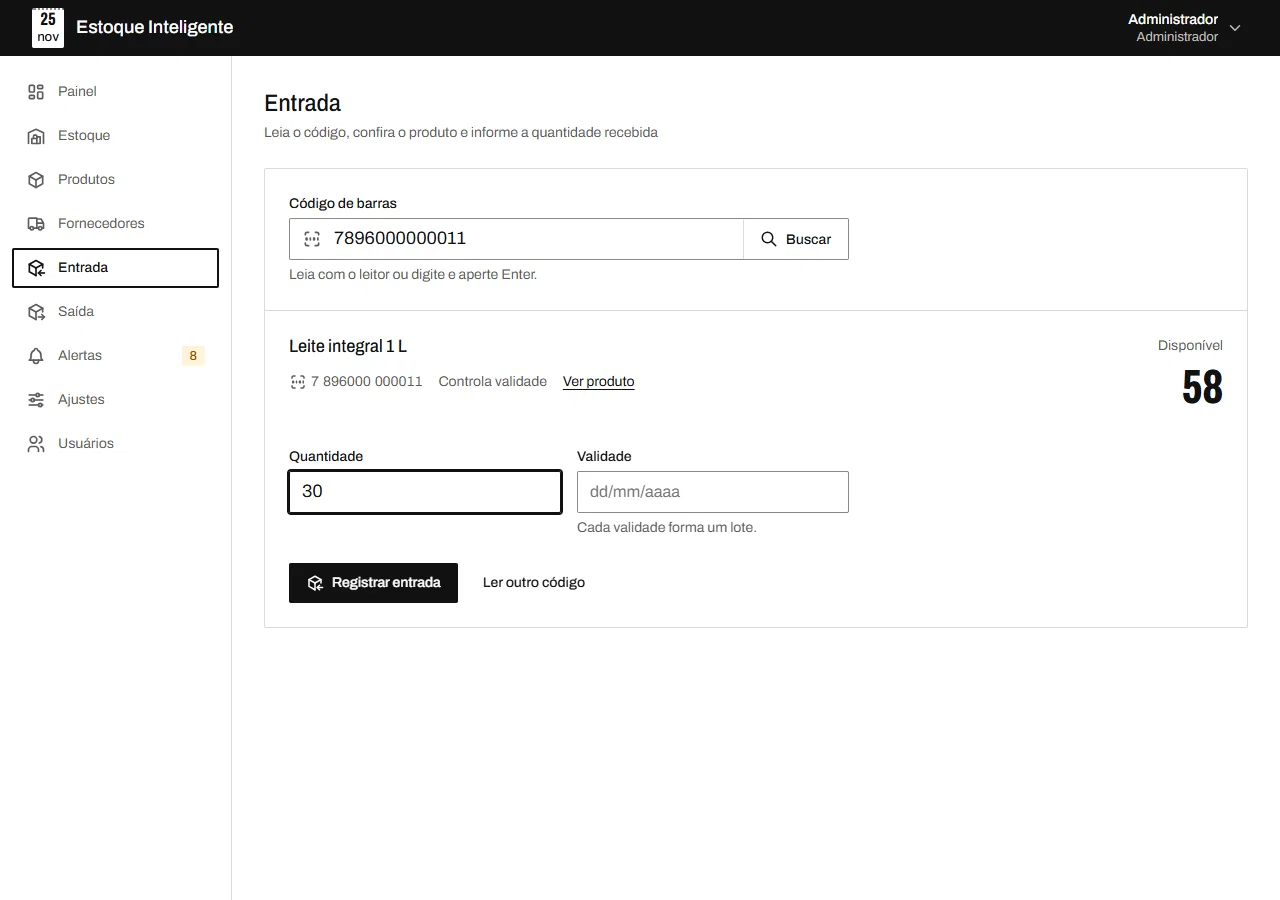
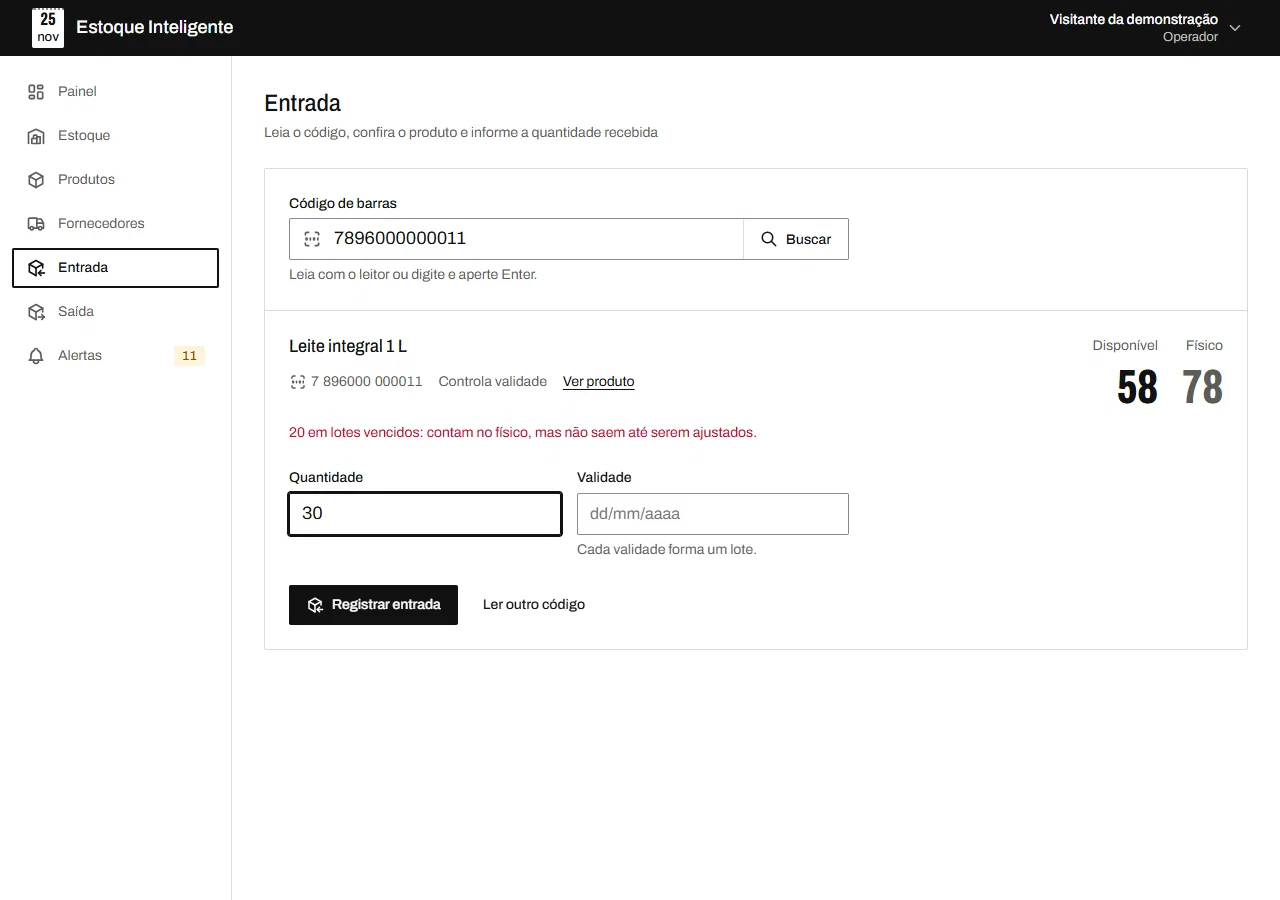
docs: capturas do site publicado e do Swagger no README

diff --git a/README.md b/README.md
@@ -36,21 +36,25 @@ Na tela de login, o botão "Entrar como demonstração" entra direto, sem digita
 
 | Painel, com os vencimentos dos próximos 21 dias | Estoque, com saldo, mínimo e situação |
 |---|---|
-| ![Painel com 4 produtos em estoque baixo (1 sem estoque), 4 lotes a vencer e nenhum vencido, a régua dos próximos 21 dias com hoje em placa preta e 4 dias de vencimento circulados, e as últimas movimentações](docs/imagens/painel.webp) | ![Estoque com os filtros Todos, Estoque baixo e Sem estoque, a busca por nome ou código de barras e 12 produtos com saldo disponível, mínimo e situação: em dia, estoque baixo ou sem estoque](docs/imagens/estoque.webp) |
+| ![Painel com 4 produtos em estoque baixo (1 sem estoque), 4 lotes a vencer e 3 vencidos, o aviso de 3 lotes vencidos com o link Ver vencidos, a régua dos próximos 21 dias com hoje em placa preta e 4 dias de vencimento circulados, e as últimas movimentações](docs/imagens/painel.webp) | ![Estoque com os filtros Todos, Estoque baixo e Sem estoque, a busca por nome ou código de barras e 12 produtos com saldo disponível, mínimo e situação; o saldo físico aparece em três produtos que têm unidades vencidas](docs/imagens/estoque.webp) |
 
-| Detalhe do produto, com preço, lotes e histórico | Entrada, com o código de barras lido |
+| Detalhe do produto, com lotes e histórico | Entrada, com o código de barras lido |
 |---|---|
-| ![Detalhe do Leite integral 1 L com o cadastro (código de barras, fornecedor, estoque mínimo, preço e validade), saldo disponível e físico de 58, dois lotes, um que vence em 5 dias e outro dentro da validade, e o histórico com uma saída e duas entradas](docs/imagens/produto-detalhe.webp) | ![Entrada com o código de barras lido, o Leite integral 1 L encontrado com 58 disponíveis, a quantidade 30 preenchida, o campo de validade ainda vazio e o botão Registrar entrada](docs/imagens/entrada.webp) |
+| ![Detalhe do Leite integral 1 L com o cadastro, saldo disponível de 58 e físico de 78, o aviso de 20 unidades em lotes vencidos, três lotes (um vencido, um que vence em 3 dias e um dentro da validade) e o histórico com três entradas e uma saída](docs/imagens/produto-detalhe.webp) | ![Entrada com o código de barras lido, o Leite integral 1 L encontrado com 58 disponíveis e 78 no físico, o aviso de 20 unidades em lotes vencidos, a quantidade 30 preenchida, o campo de validade ainda vazio e o botão Registrar entrada](docs/imagens/entrada.webp) |
 
 | Alertas ativos, com filtro por tipo | Usuários, com perfil e situação (só admin) |
 |---|---|
-| ![Alertas com os filtros Todos, Vencido, Vencimento próximo e Estoque baixo, a opção Mostrar resolvidos e 8 alertas ativos: 1 sem estoque, 4 de vencimento próximo com a validade do lote e 3 de estoque baixo](docs/imagens/alertas.webp) | ![Usuários com duas contas de exemplo ativas, um administrador e um operador, o botão Cadastrar usuário e as ações Editar e Definir nova senha](docs/imagens/usuarios.webp) |
+| ![Alertas com os filtros Todos, Vencido, Vencimento próximo e Estoque baixo, a opção Mostrar resolvidos e 11 alertas ativos: 3 de lote vencido e 4 de vencimento próximo, com a validade do lote, 1 sem estoque e 3 de estoque baixo](docs/imagens/alertas.webp) | ![Usuários com duas contas de exemplo ativas, um administrador e um operador, o botão Cadastrar usuário e as ações Editar e Definir nova senha](docs/imagens/usuarios.webp) |
 
 No celular (390 px), com a folha do mês e a barra inferior:
 
 | Painel, com os vencimentos em três semanas | Alertas, com os filtros em grade |
 |---|---|
-| ![Painel no celular com os números de estoque baixo, a vencer e vencidos, os vencimentos em três semanas de sete dias com 4 dias circulados, as últimas movimentações e a barra inferior com Painel marcado](docs/imagens/painel-celular.webp) | ![Alertas no celular com os filtros em grade de dois por dois, 8 alertas ativos e a barra inferior com Alertas marcado e o número 8](docs/imagens/alertas-celular.webp) |
+| ![Painel no celular com 4 produtos em estoque baixo, 4 lotes a vencer e 3 vencidos, os vencimentos em três semanas de sete dias com 4 dias circulados, as últimas movimentações e a barra inferior com Painel marcado](docs/imagens/painel-celular.webp) | ![Alertas no celular com os filtros em grade de dois por dois, 11 alertas ativos (os 3 primeiros de lote vencido) e a barra inferior com Alertas marcado e o número 11](docs/imagens/alertas-celular.webp) |
+
+Documentação da API (Swagger), disponível só no ambiente local:
+
+![Swagger do Estoque Inteligente, versão 0.1.0, com o botão Authorize e as 29 rotas recolhidas em oito grupos: auth (autenticação), users (usuários), suppliers (fornecedores), products (produtos), stock (estoque), alerts (alertas), dashboard (painel) e default, com a rota de saúde; o cadeado marca as rotas que exigem login](docs/imagens/swagger.webp)
 
 ## Destaques
 
